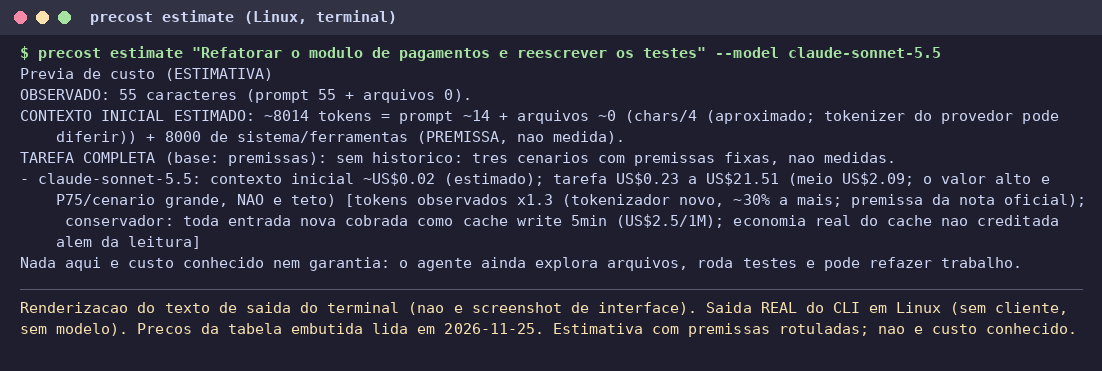
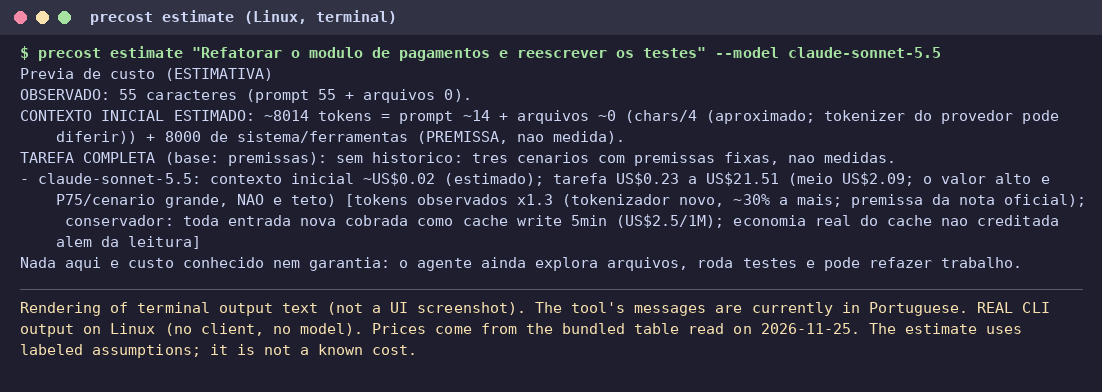
docs: ingles como idioma principal (README, INSTALLATION, CAPABILITIES), PT-BR com links cruzados, imagens com legendas em ingles

Changed region(s): [[0.0, 0.1186, 0.9873, 0.7412], [0.0, 0.7709, 0.9564, 0.9191], [0.0617, 0.0296, 0.3702, 0.0593]]

diff --git a/README.md b/README.md
@@ -1,65 +1,94 @@
-# opencode-precost (prototipo)
+# opencode-precost
 
-Mostra uma ESTIMATIVA de faixa de custo ANTES de executar uma tarefa em agentes de codigo (OpenCode e Claude Code), e opcionalmente pede aprovacao explicita quando a faixa alta passa de um limite. Privado, sem chamadas pagas. Primeira release privada v0.2.0, com limites: ver `docs/INSTALACAO.md`, "Limites" e `docs/CAPACIDADES.md`.
+**English** | [Português (Brasil)](README.pt-BR.md)
 
-## Imagens (execucao real, Linux)
-Capturas geradas a partir de saidas reais. Onde ha modelo, ele e um servidor SIMULADO local (sem custo, sem credencial). Nada abaixo foi executado em macOS ou Windows.
+Shows an **estimated** cost range *before* a task runs in a coding agent (OpenCode and Claude Code). Optionally asks for explicit approval when the high end of the range goes above a limit you set. No paid calls, no network access at run time.
 
-![Previa e bloqueio no Claude Code 2.1.332](docs/img/01-previa-e-bloqueio.png)
-![Aprovacao de uso unico](docs/img/02-aprovacao-uso-unico.png)
-![precost estimate no terminal](docs/img/03-estimate-cli.png)
-![precost update-prices (tabela simulada)](docs/img/04-update-prices.png)
-![OpenCode 1.19.6 TUI com precost (modelo simulado)](docs/img/05-opencode-tui.png)
+> Status: development version 0.3.0 (private repository, nothing published yet). Read "Limits" before relying on it. Messages printed by the tool (CLI, hook, plugin) are currently in Portuguese; see "Language" below.
 
-_Imagem 05: ilustracao do bloqueio (modelo sem preco na tabela) em recorte parcial reconstruido da TUI real; nao e screenshot integral nem prova visual do fluxo de aprovacao no OpenCode._
+## What it does
 
-## Atualizar a tabela de precos
+- `precost estimate <task>` prints a per-model range (three fixed scenarios, or percentiles from your own session history). The high end is a P75 / large scenario, **not a cap**.
+- A gate runs before your prompt reaches the model. With `limitUsd` set, a prompt whose high estimate is above the limit is blocked until you type `precost approve CODE`. The approval is bound to the prompt, model, session, price table, limit and estimated ceiling. It lasts 10 minutes (default) and works once.
+- Fails closed when a limit is set: unreadable config, unknown model, model without a price, unreadable context file, or an internal error all block instead of letting the prompt through. Without `limitUsd` the tool only informs ("NO GATE").
+
+## Pictures
+
+All images are **renderings of terminal output text, not UI screenshots**. Where a model appears it is a **simulated** local server (no cost, no credentials). Everything shown was run on **Linux**; nothing here is macOS or Windows validation (see "Platforms").
+
+![Preview and block in Claude Code 2.1.332 (simulated model server)](docs/img/01-preview-and-block.png)
+![Single-use approval (simulated model server)](docs/img/02-single-use-approval.png)
+![precost estimate in the terminal](docs/img/03-estimate-cli.png)
+![precost update-prices (SIMULATED price table, not official prices)](docs/img/04-update-prices.png)
+![OpenCode 1.19.6 TUI with precost (simulated model, partial screen)](docs/img/05-opencode-tui.png)
+
+Image 05 illustrates the block (a model with no price in the table) as a partial crop rebuilt from the real TUI. It is not a full screenshot and not proof of the approval flow in OpenCode.
+
+## Install
+
+Details, prerequisites and the validation matrix: [docs/INSTALLATION.md](docs/INSTALLATION.md).
+
+- **Claude Code (plugin):** `claude --plugin-dir /path/to/opencode-precost` to try it locally. Marketplace install (`/plugin marketplace add <repo>`, `/plugin install precost`) will work only after the repository is public. Not published to any marketplace yet.
+- **Claude Code (manual):** copy `adapters/claude-code/settings.example.json` into your Claude settings and fix the path. Keep `"onFailure": "block"`: without it a crashing, missing or hanging hook lets the prompt reach the model.
+- **OpenCode (1.19.6 only):** `npm i opencode-precost @opencode-ai/plugin@1.19.6` (the package is not on npm yet; use `npm pack` from a clone) and create `.opencode/plugins/precost.js`:
+  ```js
+  import { PrecostPlugin } from 'opencode-precost';
+  export const P = async (input) => PrecostPlugin(input, { limitUsd: 5 });
+  ```
+  Loading the plugin only through `opencode.json` was not verified.
+- **Config** (`~/.config/precost/config.json`, Windows `%APPDATA%\precost\config.json`): `{"model":"claude-sonnet-5.5","limitUsd":5}`.
+- **Check the install:** `node bin/precost.js doctor`. It cannot prove the client loaded the hook in your session. In a real session type `precost last` first: if a model answers, the hook is not loaded.
+
+## Commands
+
+Typed in the prompt (they never reach the model): `precost estimate <task>`, `precost last`, `precost approve CODE`, `precost revoke CODE|all`.
+In a terminal: `node bin/precost.js estimate "task" --model claude-sonnet-5.5`.
+
+### Update the reference price table
+
 ```
-precost prices                                   # tabela em uso, data e idade (aviso se > 30 dias)
-precost update-prices --from ARQUIVO_OU_URL      # valida e mostra o diff (nada e gravado). URL: https obrigatorio
-precost update-prices --from ARQUIVO_OU_URL --yes   # grava em ~/.config/precost/prices.json (Windows: %APPDATA%\precost\prices.json)
-precost update-prices                            # sem --from (e sem PRECOST_PRICES_SOURCE): erro com orientacao, nada muda
-precost update-prices --reset                    # volta para a tabela embutida
-```
-Recusa tabela invalida, mais antiga que a atual, ou com remocao/variacao acima de 5x (use `--force` so depois de conferir a fonte). Roda so na CLI, nunca dentro do hook/plugin. Usa-se a tabela do usuario so se nao for mais antiga que a embutida. Trocar a tabela invalida aprovacoes pendentes. Nao ha URL padrao nem leitura automatica das paginas oficiais de preco: voce indica a fonte (arquivo ou https). Hoje a tabela embutida (`data/prices.json`) e a fonte de referencia; as paginas oficiais citadas em cada modelo continuam sendo a verdade. Confira sempre.
-
-## Plataformas
-- Linux: testado (testes unitarios, Claude Code 2.1.332 e OpenCode 1.19.6 reais contra servidor falso).
-- macOS e Windows: o codigo usa caminhos por plataforma (`src/paths.js`; Windows: `%APPDATA%`/`%LOCALAPPDATA%`) e o hook do Claude Code usa `node` + `args` (sem shell). A matriz de CI (`.github/workflows/ci.yml`) roda os testes unitarios em Ubuntu, macOS e Windows. Ate a CI passar, trate como NAO VERIFICADO. Os scripts `e2e:*` sao bash/pty e rodam so em Linux/macOS.
-
-## Claude Code como plugin
-`claude plugin marketplace add glauberportella/opencode-precost` e `claude plugin install precost@precost-marketplace` (apos o repositorio estar publico). Local: `claude --plugin-dir .`. Testado em Linux com Claude Code 2.1.332 real e servidor falso (`npm run e2e:claude-plugin`). `onFailure:"block"` no hook do plugin: carregado e usado, falha do hook em plugin ainda nao testada.
-
-## Instalar e testar (reproduzivel)
-```
-npm ci            # usa package-lock.json; instala a dependencia de dev @opencode-ai/plugin@1.19.6 (necessaria para o teste do adaptador OpenCode)
-npm test          # 54 testes; sem npm ci o teste do adaptador OpenCode falha por dependencia ausente
-node bin/precost.js doctor   # verifica instalacao local (limite: nao prova que o cliente carregou o hook)
-npm run e2e:opencode          # OpenCode 1.19.6 real, sem modelo: ciclo bloqueio/approve/uso unico (npx opencode-ai@1.19.6)
-npm run e2e:opencode-ledger   # OpenCode 1.19.6 real + provedor FALSO local: evento real do assistente, semantica de tokens/custo
-npm run e2e:claude-tui        # TUI INTERATIVA real do Claude Code (pty) + servidor falso: bloqueio visivel, 0 chamadas ao modelo
-npm run e2e:claude-failure    # falha do hook (crash, node ausente, timeout) no settings.example.json real: nada chega ao modelo (onFailure:block)
-npm run e2e:opencode-tui      # TUI real do OpenCode 1.19.6 (pty): bloqueio visivel, plugin carregado, sem provedor pago
-npm run e2e:claude            # Claude Code 2.1.332 REAL + servidor Anthropic FALSO local: hook, bloqueio sem chamar modelo, approve, uso unico, modelo via transcript (npx @anthropic-ai/claude-code@2.1.332)
+precost prices                                   # table in use, date, age (warns after 30 days)
+precost update-prices --from FILE_OR_URL         # validates and shows the diff; nothing is written (URL must be https)
+precost update-prices --from FILE_OR_URL --yes   # writes ~/.config/precost/prices.json (Windows: %APPDATA%\precost\prices.json)
+precost update-prices                            # no --from and no PRECOST_PRICES_SOURCE: error with guidance, nothing changes
+precost update-prices --reset                    # back to the bundled table
 ```
 
-## Primeiro uso real guiado (escopo)
-1. Previa pelo terminal, o canal acessivel e verificado: `node bin/precost.js estimate "tarefa..." --model gemini-3.5-flash` (ou `--task`, `--file`). Tambem `node bin/precost.js last` mostra o ultimo bloqueio.
-2. Modelos com preco conhecido na tabela (`data/prices.json`): Gemini 3.x/4 e Claude 4.5 a 5.5. Modelo fora da tabela com limite configurado = bloqueia e pede aprovacao.
-3. Claude Code NAO informa o modelo ao hook (observado na 2.1.332). So `PRECOST_MODEL` e aceito como modelo efetivo sem pior caso: e uma DECLARACAO do operador, NAO uma prova tecnica (ela nao forca o Claude a usar esse modelo; use-a junto com `claude --model` igual). Rastreador, ultima resposta do transcript e `--model` do processo sao OBSERVADOS: nao garantem o modelo do proximo prompt (apos `/model`). `ANTHROPIC_MODEL`, settings do Claude e `config.model` sao DECLARADOS. Fora do caso comprovado, o gate usa o PIOR CASO do catalogo suportado (rotulado, nao e preco comprovado nem teto: modelo fora do catalogo nao e coberto) e a aprovacao fica presa a esse estado. `trustConfiguredModel:true` no config aceita um modelo observado/declarado consistente como efetivo (decisao do usuario), exceto quando o transcript registra um `/model` depois da ultima resposta (troca pendente: volta ao pior caso). Exemplo de config: `{"model":"claude-sonnet-5.5","limitUsd":5}`. Historico: com 5+ sessoes do mesmo modelo na pasta de transcripts do projeto, a previa usa o consumo real.
-   Instalacao: copie `adapters/claude-code/settings.example.json` ajustando o caminho. O `onFailure:"block"` do UserPromptSubmit e obrigatorio para o gate: sem ele (ou com `continue`) crash, node ausente ou timeout do hook deixam o prompt chegar ao modelo (reproduzido; `npm run e2e:claude-failure`). Sem limite configurado o hook e so informativo.
-4. OpenCode: `.opencode/plugins/precost.js` reexportando `adapters/opencode/index.js`, opcoes `limitUsd`, `models`, `ttlMin`. So OpenCode 1.19.6 (outra versao bloqueia, salvo `allowUnverifiedVersion`).
-5. Comandos digitados no prompt (nao chegam ao modelo): `precost estimate <tarefa>`, `precost last`, `precost approve CODIGO`, `precost revoke CODIGO|all`. No Claude Code 2.1.332 em modo `claude -p` o texto aparece na saida ("UserPromptSubmit operation blocked by hook: ..."), verificado com Claude Code real; a TUI interativa tambem foi verificada (`npm run e2e:claude-tui`). No OpenCode o cliente recebe erro generico; na TUI real do OpenCode 1.19.6 o texto de bloqueio aparece numa caixa de erro (`npm run e2e:opencode-tui`, captura em docs/evidence/opencode-tui-pty-capture.txt); ciclo approve/reenvio/uso unico testado na TUI com provedor falso local. Trate o terminal como canal confiavel e os comandos no prompt como conveniencia nao comprovada no OpenCode.
+It rejects an invalid table, one older than the current one, or one with a removal or a change above 5x (use `--force` only after checking the source). It runs only from the CLI, never inside the hook or plugin. A user table is used only if it is not older than the bundled one. Changing the table invalidates pending approvals. There is **no default URL and no automatic reading of official pricing pages**: you provide the source (file or https URL). Today the bundled `data/prices.json` is the reference; the official pages cited per model remain the source of truth. Always check them.
 
-## Limites (resumo; detalhes em docs/CAPACIDADES.md)
-- E estimativa: tokens = chars/4 (x1.3 nos observados para Claude 4.7+) + 8k de sistema (premissa). Nao e custo conhecido.
-- Faixa alta = P75/cenario grande, nao teto. O gate age antes do prompt; nao limita gasto durante a tarefa nem laços longos.
-- OpenCode nao tem previa automatica antes do modelo; este plugin calcula dentro de `chat.message`. O bloqueio por throw e comportamento nao documentado (versao fixada, falha fechada).
-- Gate contra gasto acidental, nao contra agente com shell no mesmo usuario (estado e arquivo local).
-- Precos: Gemini via cloud.google.com/vertex-ai/generative-ai/pricing, Claude via platform.claude.com/docs/en/about-claude/pricing, lidos em 25/nov/2026. Carbon/Argon: bruto inferido. Nao modelados: Batch, Priority, Fast mode, residencia de dados.
-- Historico: so sessoes do mesmo modelo e projeto, minimo 5. Semantica dos tokens validada com eventos/transcripts reais de OpenCode e Claude Code contra provedores FALSOS (sem fatura real): `input` exclui o cache. Comparacao com fatura real ainda nao feita.
-- Premissa de sistema: 8k tokens no OpenCode e 13k no Claude Code, a partir do tamanho medido do corpo da requisicao (32,6 KB e 48,9 KB para um prompt de 3 a 9 caracteres) convertido por chars/4; nao e contagem de tokens do provedor.
+## Platforms
 
-## Licenca
+What was actually executed is in the matrix in [docs/INSTALLATION.md](docs/INSTALLATION.md#validation-matrix). Linux is not validation of macOS or Windows. The code uses per-platform paths (`src/paths.js`) and the Claude Code hook uses `node` + `args` (no shell). `npm run e2e:native` (Node, no bash) runs the real clients against fake local servers on Linux, macOS and Windows; results per system are in the matrix. Official client support on Windows: Claude Code runs natively on Windows 10 1809+ (Git for Windows recommended); OpenCode runs on Windows but its docs recommend WSL.
 
-MIT. Veja [LICENSE](LICENSE). Copyright (c) 2026 Glauber Portella.
+## Test it
+
+```
+npm ci            # installs the dev dependency @opencode-ai/plugin@1.19.6 (needed by the OpenCode adapter test)
+npm test          # 63 unit tests
+npm run e2e:native            # real Claude Code 2.1.332 and OpenCode 1.19.6 vs fake servers: block, approve, single use, fail closed
+npm run e2e:claude-plugin     # Claude Code plugin cycle (bash, Linux/macOS)
+npm run e2e:claude-plugin-failure   # hook crash / missing node / timeout never reach the model (bash)
+npm run e2e:opencode          # OpenCode 1.19.6 block/approve/single-use cycle (bash)
+```
+End-to-end scripts download pinned client versions through `npx` and call only local fake servers. No paid model is called.
+
+## Limits
+
+- It is an estimate: tokens are chars/4 (x1.3 for observed Claude 4.7+ tokens) plus an assumed system prompt (8k OpenCode, 13k Claude Code). It is not a known cost.
+- The high end is not a cap. The gate acts before the prompt; it does not limit spend during a task or inside long loops.
+- Claude Code does not tell the hook which model is active (observed in 2.1.332). An unproven model uses the worst case in the supported catalog, labeled as such.
+- OpenCode has no automatic preview before the model; this plugin computes it inside `chat.message`. Blocking by throwing is undocumented behavior, so the plugin is pinned to OpenCode 1.19.6 and fails closed on other versions (unless `allowUnverifiedVersion` is set).
+- Approval is a local file of the same user. It protects against accidental spend, not against an agent with a shell.
+- The gate only works while the plugin or hook is loaded.
+- Prices: Gemini from cloud.google.com/vertex-ai/generative-ai/pricing and Claude from platform.claude.com/docs/en/about-claude/pricing, read on 2026-11-25. Not modeled: batch, priority, fast mode, data residency. Carbon/Argon raw price is inferred.
+- Token semantics were checked against real events and transcripts from OpenCode and Claude Code with **fake** providers. No comparison with a real invoice has been done.
+
+More detail: [docs/CAPABILITIES.md](docs/CAPABILITIES.md).
+
+## Language
+
+The documentation is available in English (main) and Portuguese (Brasil). The messages printed by the tool itself are still Portuguese only; an English default with a language setting is proposed but not implemented.
+
+## License
+
+MIT. See [LICENSE](LICENSE). Copyright (c) 2026 Glauber Portella.

diff --git a/README.pt-BR.md b/README.pt-BR.md
@@ -1,0 +1,66 @@
+# opencode-precost (prototipo)
+
+[English](README.md) | **Português (Brasil)**
+
+Mostra uma ESTIMATIVA de faixa de custo ANTES de executar uma tarefa em agentes de codigo (OpenCode e Claude Code), e opcionalmente pede aprovacao explicita quando a faixa alta passa de um limite. Privado, sem chamadas pagas. Versao de desenvolvimento 0.3.0 (branch dev/0.3.0), com limites: ver `docs/INSTALACAO.pt-BR.md`, "Limites" e `docs/CAPACIDADES.md`.
+
+## Imagens (execucao real, Linux)
+Renderizacoes do texto de saida do terminal (nao sao screenshots de interface), geradas a partir de saidas reais; as legendas nas imagens estao em ingles e as mensagens da ferramenta ainda estao em portugues. Onde ha modelo, ele e um servidor SIMULADO local (sem custo, sem credencial). Nada abaixo foi executado em macOS ou Windows.
+
+![Previa e bloqueio no Claude Code 2.1.332](docs/img/01-preview-and-block.png)
+![Aprovacao de uso unico](docs/img/02-single-use-approval.png)
+![precost estimate no terminal](docs/img/03-estimate-cli.png)
+![precost update-prices (tabela simulada)](docs/img/04-update-prices.png)
+![OpenCode 1.19.6 TUI com precost (modelo simulado)](docs/img/05-opencode-tui.png)
+
+_Imagem 05: ilustracao do bloqueio (modelo sem preco na tabela) em recorte parcial reconstruido da TUI real; nao e screenshot integral nem prova visual do fluxo de aprovacao no OpenCode._
+
+## Atualizar a tabela de precos
+```
+precost prices                                   # tabela em uso, data e idade (aviso se > 30 dias)
+precost update-prices --from ARQUIVO_OU_URL      # valida e mostra o diff (nada e gravado). URL: https obrigatorio
+precost update-prices --from ARQUIVO_OU_URL --yes   # grava em ~/.config/precost/prices.json (Windows: %APPDATA%\precost\prices.json)
+precost update-prices                            # sem --from (e sem PRECOST_PRICES_SOURCE): erro com orientacao, nada muda
+precost update-prices --reset                    # volta para a tabela embutida
+```
+Recusa tabela invalida, mais antiga que a atual, ou com remocao/variacao acima de 5x (use `--force` so depois de conferir a fonte). Roda so na CLI, nunca dentro do hook/plugin. Usa-se a tabela do usuario so se nao for mais antiga que a embutida. Trocar a tabela invalida aprovacoes pendentes. Nao ha URL padrao nem leitura automatica das paginas oficiais de preco: voce indica a fonte (arquivo ou https). Hoje a tabela embutida (`data/prices.json`) e a fonte de referencia; as paginas oficiais citadas em cada modelo continuam sendo a verdade. Confira sempre.
+
+## Plataformas
+Matriz do que foi realmente executado (CI real do GitHub + execucao local): ver `docs/INSTALACAO.pt-BR.md`, "Matriz de validacao". Linux nao e validacao de macOS/Windows. O codigo usa caminhos por plataforma (`src/paths.js`; Windows: `%APPDATA%`) e o hook do Claude Code usa `node` + `args` (sem shell). O harness `npm run e2e:native` (Node, sem bash) roda os clientes reais contra servidores falsos em Linux, macOS e Windows.
+
+## Claude Code como plugin
+`claude plugin marketplace add glauberportella/opencode-precost` e `claude plugin install precost@precost-marketplace` (apos o repositorio estar publico). Local: `claude --plugin-dir .`. Testado em Linux com Claude Code 2.1.332 real e servidor falso (`npm run e2e:claude-plugin`). `onFailure:"block"` no hook do plugin; falha do hook no plugin testada em Linux (`npm run e2e:claude-plugin-failure`).
+
+## Instalar e testar (reproduzivel)
+```
+npm ci            # usa package-lock.json; instala a dependencia de dev @opencode-ai/plugin@1.19.6 (necessaria para o teste do adaptador OpenCode)
+npm test          # 63 testes; sem npm ci o teste do adaptador OpenCode falha por dependencia ausente
+node bin/precost.js doctor   # verifica instalacao local (limite: nao prova que o cliente carregou o hook)
+npm run e2e:opencode          # OpenCode 1.19.6 real, sem modelo: ciclo bloqueio/approve/uso unico (npx opencode-ai@1.19.6)
+npm run e2e:opencode-ledger   # OpenCode 1.19.6 real + provedor FALSO local: evento real do assistente, semantica de tokens/custo
+npm run e2e:claude-tui        # TUI INTERATIVA real do Claude Code (pty) + servidor falso: bloqueio visivel, 0 chamadas ao modelo
+npm run e2e:claude-failure    # falha do hook (crash, node ausente, timeout) no settings.example.json real: nada chega ao modelo (onFailure:block)
+npm run e2e:opencode-tui      # TUI real do OpenCode 1.19.6 (pty): bloqueio visivel, plugin carregado, sem provedor pago
+npm run e2e:claude            # Claude Code 2.1.332 REAL + servidor Anthropic FALSO local: hook, bloqueio sem chamar modelo, approve, uso unico, modelo via transcript (npx @anthropic-ai/claude-code@2.1.332)
+```
+
+## Primeiro uso real guiado (escopo)
+1. Previa pelo terminal, o canal acessivel e verificado: `node bin/precost.js estimate "tarefa..." --model gemini-3.5-flash` (ou `--task`, `--file`). Tambem `node bin/precost.js last` mostra o ultimo bloqueio.
+2. Modelos com preco conhecido na tabela (`data/prices.json`): Gemini 3.x/4 e Claude 4.5 a 5.5. Modelo fora da tabela com limite configurado = bloqueia e pede aprovacao.
+3. Claude Code NAO informa o modelo ao hook (observado na 2.1.332). So `PRECOST_MODEL` e aceito como modelo efetivo sem pior caso: e uma DECLARACAO do operador, NAO uma prova tecnica (ela nao forca o Claude a usar esse modelo; use-a junto com `claude --model` igual). Rastreador, ultima resposta do transcript e `--model` do processo sao OBSERVADOS: nao garantem o modelo do proximo prompt (apos `/model`). `ANTHROPIC_MODEL`, settings do Claude e `config.model` sao DECLARADOS. Fora do caso comprovado, o gate usa o PIOR CASO do catalogo suportado (rotulado, nao e preco comprovado nem teto: modelo fora do catalogo nao e coberto) e a aprovacao fica presa a esse estado. `trustConfiguredModel:true` no config aceita um modelo observado/declarado consistente como efetivo (decisao do usuario), exceto quando o transcript registra um `/model` depois da ultima resposta (troca pendente: volta ao pior caso). Exemplo de config: `{"model":"claude-sonnet-5.5","limitUsd":5}`. Historico: com 5+ sessoes do mesmo modelo na pasta de transcripts do projeto, a previa usa o consumo real.
+   Instalacao: copie `adapters/claude-code/settings.example.json` ajustando o caminho. O `onFailure:"block"` do UserPromptSubmit e obrigatorio para o gate: sem ele (ou com `continue`) crash, node ausente ou timeout do hook deixam o prompt chegar ao modelo (reproduzido; `npm run e2e:claude-failure`). Sem limite configurado o hook e so informativo.
+4. OpenCode: `.opencode/plugins/precost.js` reexportando `adapters/opencode/index.js`, opcoes `limitUsd`, `models`, `ttlMin`. So OpenCode 1.19.6 (outra versao bloqueia, salvo `allowUnverifiedVersion`).
+5. Comandos digitados no prompt (nao chegam ao modelo): `precost estimate <tarefa>`, `precost last`, `precost approve CODIGO`, `precost revoke CODIGO|all`. No Claude Code 2.1.332 em modo `claude -p` o texto aparece na saida ("UserPromptSubmit operation blocked by hook: ..."), verificado com Claude Code real; a TUI interativa tambem foi verificada (`npm run e2e:claude-tui`). No OpenCode o cliente recebe erro generico; na TUI real do OpenCode 1.19.6 o texto de bloqueio aparece numa caixa de erro (`npm run e2e:opencode-tui`, captura em docs/evidence/opencode-tui-pty-capture.txt); ciclo approve/reenvio/uso unico testado na TUI com provedor falso local. Trate o terminal como canal confiavel e os comandos no prompt como conveniencia nao comprovada no OpenCode.
+
+## Limites (resumo; detalhes em docs/CAPACIDADES.md)
+- E estimativa: tokens = chars/4 (x1.3 nos observados para Claude 4.7+) + 8k de sistema (premissa). Nao e custo conhecido.
+- Faixa alta = P75/cenario grande, nao teto. O gate age antes do prompt; nao limita gasto durante a tarefa nem laços longos.
+- OpenCode nao tem previa automatica antes do modelo; este plugin calcula dentro de `chat.message`. O bloqueio por throw e comportamento nao documentado (versao fixada, falha fechada).
+- Gate contra gasto acidental, nao contra agente com shell no mesmo usuario (estado e arquivo local).
+- Precos: Gemini via cloud.google.com/vertex-ai/generative-ai/pricing, Claude via platform.claude.com/docs/en/about-claude/pricing, lidos em 25/nov/2026. Carbon/Argon: bruto inferido. Nao modelados: Batch, Priority, Fast mode, residencia de dados.
+- Historico: so sessoes do mesmo modelo e projeto, minimo 5. Semantica dos tokens validada com eventos/transcripts reais de OpenCode e Claude Code contra provedores FALSOS (sem fatura real): `input` exclui o cache. Comparacao com fatura real ainda nao feita.
+- Premissa de sistema: 8k tokens no OpenCode e 13k no Claude Code, a partir do tamanho medido do corpo da requisicao (32,6 KB e 48,9 KB para um prompt de 3 a 9 caracteres) convertido por chars/4; nao e contagem de tokens do provedor.
+
+## Licenca
+
+MIT. Veja [LICENSE](LICENSE). Copyright (c) 2026 Glauber Portella.

diff --git a/docs/CAPABILITIES.md b/docs/CAPABILITIES.md
@@ -1,0 +1,54 @@
+**English** | Português: [CAPACIDADES.md](CAPACIDADES.md) (historical log, longer)
+
+# What each client really allows
+
+Status as of 2026-11-25. VERIFIED = run against the real software. DOC = documentation or types only. No paid model was called.
+
+## Honest summary
+
+- **OpenCode does not preview cost before the model on its own.** This plugin computes the preview inside the `chat.message` hook, which runs before the model.
+- **The tool gate (`tool.execute.before` plus a session limit) is not a spending cap.** By the time a tool is requested the model has already been called and billed. Only the prompt gate acts before the first spend of a task, and it does not limit spend inside an approved task.
+- Neither gate stops long loops started by an approved prompt.
+
+| Capability | OpenCode 1.19.6 (plugin V1) | Claude Code (hooks) |
+|---|---|---|
+| Plugin/hook loads | VERIFIED (`opencode serve` listed the `precost_estimate` tool; shim + npm package also verified) | VERIFIED with 2.1.332 (`--plugin-dir`, fake server) |
+| Hook receives the prompt before the model | VERIFIED (`chat.message` fired with the real prompt before any processing event) | VERIFIED (`UserPromptSubmit` gets `prompt`, `session_id`, `transcript_path`, `cwd`) |
+| Block a prompt | VERIFIED: throwing in `chat.message` keeps the prompt out of the session (0 messages) and away from the model. Undocumented behavior; the client sees a generic error, the TUI shows the text in an error box | VERIFIED: `{"decision":"block","reason":...}` blocks; the model server counter stayed at 0; text visible in `claude -p` and in the interactive TUI |
+| Block, approve, resend, single use | VERIFIED on a real server: messages 0, 0, 0, 1, 1 | VERIFIED with real client and fake server (1 model call after approval, blocked again on the next resend) |
+| Active model | `chat.message` receives `input.model.modelID` | The event does **not** carry the model. Tracked by `SessionStart.model` (optional) and `PostModelSwitch.to_model`; otherwise by the last transcript response, the process `--model` flag (Linux only), declared sources, or the worst case |
+| Real spend per message | `message.updated` of the assistant carries `cost` and `tokens` (checked against a fake provider) | transcript `usage` fields (checked against a fake server) |
+| Automatic prompts | n/a | DOC: `UserPromptSubmit` also fires for scheduled tasks, background subagents and messages from other sessions; the gate can block them |
+
+## Approval (explicit and bound)
+
+Resending the same prompt never approves it. To approve, type `precost approve CODE` (a random code for the pending block). The approval binds prompt, model, session, price table hash, limit and estimated ceiling. It lasts a TTL (default 10 minutes), works once, and `precost revoke CODE|all` revokes it. Any change to those items invalidates it.
+
+## Estimator limits
+
+- The observed input is characters. Tokens = chars/4. System/tool overhead is an assumption (8k OpenCode, 13k Claude Code, derived from measured request body size).
+- Without history (fewer than 5 sessions of the same model and project): three fixed scenarios with assumptions, not measurements. With history: P25/P50/P75 aggregates.
+- Claude 4.7+ tokenizer: observed tokens x1.3 (approximate, from the official note). All new input is priced as 5-minute cache write (conservative, may overestimate).
+- Long context: `none` (no tier on the page), an object (e.g. 3.1 Pro, Haiku 5.5 at 100K) or `unknown` (Gemini 4: only a lower bound, requires approval).
+- Price table: official pages read on 2026-11-25 (Standard, Global). Not modeled: Batch, Priority, Flex, Fast mode, data residency (1.1x). Raw Carbon/Argon price is inferred (the page describes 50% credits back); the gate uses the raw price. Access to those models on a given account was not verified.
+
+## Safety model
+
+- Approval state lives in files of the same user (`~/.cache/precost`, Windows `%LOCALAPPDATA%\precost\state`). An agent with a shell or write access as that user can forge an approval or read the code. The gate protects against accidental spend, not an adversarial agent.
+- `precost approve` is accepted only as typed user prompt text. The local CLI approves nothing; `precost last` only shows the last block.
+- **Fail closed** (when `limitUsd` is set): a non-numeric or negative limit, invalid TTL, unreadable config or price table, internal error, unreadable hook input, unknown or unpriced model, a cost with only a lower bound, or a context file that could not be counted (large, outside the project, secret) all block and ask for approval or a fix. Without `limitUsd` the tool only informs and says "NO GATE".
+- **Hook failure** (Claude Code): with `onFailure: "block"`, a script crash, missing `node` or timeout never reaches the model (real client, negative control included). Without it, or with `continue`, the prompt goes through.
+- **OpenCode:** depends on undocumented throw behavior, so the version is pinned to 1.19.6 (read from `/global/health` or the binary); a different or unknown version blocks unless `allowUnverifiedVersion: true`.
+- Files referenced in a prompt (`@path` in Claude Code, `file` parts in OpenCode) are read inside the project, counted in the estimate, and their content hash is part of the approval. Ignored files (secret, large) are not read; their size+mtime signature binds the approval (a change that preserves both is not detected).
+
+## Model resolution in Claude Code
+
+The hook does not receive the model. Chain: `PRECOST_MODEL` (an operator declaration, treated as proven, but it does not force the request) > tracker > last transcript response > process `--model` flag (observed: they do not prove the model of the next prompt after `/model`) > `ANTHROPIC_MODEL`, settings, `config.model` (declared). An unproven model uses the worst case across all candidate `claude-*` models and says so; the approval is bound to that state. Conflicting declared sources are never proven. `trustConfiguredModel: true` accepts a single consistent observed/declared model, except when the transcript records a `/model` after the last response (then the worst case applies).
+
+## History
+
+With at least 5 sessions of the same model and project, the preview uses real consumption. The peak per call is the largest recorded (not a quantile). Each compared line uses only its own model's history. Token semantics were checked against real events and transcripts with fake providers: `input` excludes cache. No comparison with a real invoice has been made.
+
+## Not verified
+
+Real invoice comparison, `PostModelSwitch` in a user install, subagents and scheduled runs, raw Carbon/Argon price, approval flow visuals in the OpenCode TUI beyond the tested pty cycle, and real end-to-end use on macOS and Windows (see the matrix in INSTALLATION.md).

diff --git a/docs/INSTALLATION.md b/docs/INSTALLATION.md
@@ -1,0 +1,82 @@
+**English** | [Português (Brasil)](INSTALACAO.pt-BR.md)
+
+# Installation and verification (v0.3.0-dev, private repository)
+
+Nothing here calls a paid model or publishes a package. Requirements: Node >= 20, git, access to the repository.
+
+## Validation matrix
+
+What was actually executed (GitHub-hosted runners and local runs). Linux is not validation of macOS or Windows.
+
+| Client / OS | Linux | macOS | Windows |
+|---|---|---|---|
+| Unit tests (63) | OK (Node 20 and 22, real CI) | OK on Node 22 (real CI); Node 20 cancelled twice by GitHub infrastructure (inconclusive) | OK on Node 20 and 22 (real CI, windows-latest) |
+| Claude Code plugin, real 2.1.332 vs fake server | OK (real CI) | pending (see below) | pending |
+| OpenCode 1.19.6, real vs fake server | OK (real CI, shim + npm pack) | pending | pending |
+
+"Pending" entries are being run by the cross-platform harness `npm run e2e:native` in CI. This table is updated from the CI results only. An earlier macOS run of the bash scripts failed because they used `timeout`, which macOS does not have; this was fixed and the harness above no longer uses bash.
+
+Official client support on Windows (docs read 2026-11-25): Claude Code runs natively on Windows 10 1809+ / Server 2019+ (Git for Windows recommended; without it Claude Code uses PowerShell) - https://code.claude.com/docs/en/setup . OpenCode can run directly on Windows but its documentation recommends WSL - https://opencode.ai/docs/windows-wsl/ .
+
+## 1. Get it and test it
+
+```
+git clone git@github.com:jarbas-melo/opencode-precost.git && cd opencode-precost
+git checkout dev/0.3.0              # until release 0.3.0
+npm ci && npm test                    # 63 tests
+```
+
+End-to-end tests against real third-party clients and FAKE local servers (no spend; they download pinned versions through npx): `npm run e2e:native` (all systems), or the bash variants `e2e:claude-plugin`, `e2e:claude-plugin-failure`, `e2e:claude`, `e2e:claude-tui`, `e2e:claude-failure`, `e2e:opencode`, `e2e:opencode-ledger`, `e2e:opencode-tui` (Linux/macOS).
+
+## 2. Configuration (`~/.config/precost/config.json`, Windows `%APPDATA%\precost\config.json`)
+
+```
+{"model":"claude-sonnet-5.5","limitUsd":5}
+```
+
+Without `limitUsd` the hook only informs and never blocks. `trustConfiguredModel: true` is your decision to accept an observed or declared model as the effective one (see the README, "Limits").
+
+## 3. Claude Code (tested with 2.1.332)
+
+- **Plugin:** `claude --plugin-dir /path/to/opencode-precost` to try it. After the repository is public: `/plugin marketplace add <repo>` and `/plugin install precost`. Hooks are in `hooks/hooks.json` with `onFailure: "block"`. Not published to any marketplace yet.
+- **Manual:** copy `adapters/claude-code/settings.example.json` into `~/.claude/settings.json` (or the project's `.claude/settings.json`) and replace `/CAMINHO/opencode-precost` with the clone path. Keep `"onFailure": "block"` on `UserPromptSubmit`; without it a crash, timeout or missing node lets the prompt reach the model.
+
+## 4. OpenCode (tested with 1.19.6; other versions block)
+
+In the project: `npm i opencode-precost @opencode-ai/plugin@1.19.6` (not on npm yet: run `npm pack` in a clone and install the tarball), then create `.opencode/plugins/precost.js`:
+
+```js
+import { PrecostPlugin } from 'opencode-precost';
+export const P = async (input) => PrecostPlugin(input, { limitUsd: 5 });
+```
+
+Verified on Linux with OpenCode 1.19.6: this shim loads the plugin and blocks the message. Not verified: loading it only through `opencode.json` (the `plugin` key did not load it in tests; the `plugins` key is ignored by 1.19.6). Use the shim.
+
+## 5. Check the install (no paid call)
+
+```
+node bin/precost.js doctor [--project DIR] [--claude-settings FILE]
+```
+
+`doctor` checks config, prices, hook/plugin files, `onFailure` and trackers, and runs the hook locally with temporary state. It exits 1 on any FAIL.
+**Limit:** `doctor` cannot prove that the client loaded the hook or plugin in your session. The fail-closed behavior only holds while it is loaded. In a real session type `precost last` first: with the hook loaded, precost answers without a model. If a model answers, the hook is NOT loaded (cost: one short prompt).
+
+## 6. Prices
+
+`precost prices` shows the table in use. `precost update-prices --from FILE_OR_URL` validates and prints a diff; add `--yes` to write it. There is no default URL: without a source it explains how to provide one.
+
+## 7. Use
+
+`precost estimate <task>`, `precost last`, `precost approve CODE`, `precost revoke CODE|all`, typed in the prompt (they do not reach the model). In a terminal: `node bin/precost.js estimate "..." --model ...`.
+
+## Supported scope and limits (summary; details in CAPABILITIES.md)
+
+- An estimate, not a cost. The high end is not a cap. The gate acts before the prompt and does not limit spend during the task.
+- OpenCode has no automatic preview before the model. After approval there is one auxiliary call (session title) that the estimate does not include (observed only against a fake provider).
+- Approval is a local file of the same user: it protects against accidental spend, not against an agent with a shell.
+- Worst-case model = highest price in the supported catalog. It is a label, not a guarantee.
+- Not verified: a real invoice, `PostModelSwitch` in your install, subagents and scheduled runs, raw Carbon/Argon price (inferred).
+
+## Hook failure in the Claude Code plugin (Linux)
+
+`npm run e2e:claude-plugin-failure` (real Claude Code 2.1.332, `--plugin-dir`, fake server, no spend): a script crash, a missing `node` and a hook timeout do NOT let the prompt reach the model (`onFailure: block`). Negative control: with `onFailure: continue` the prompt goes through.

diff --git a/docs/INSTALACAO.pt-BR.md b/docs/INSTALACAO.pt-BR.md
@@ -1,3 +1,5 @@
+[English](INSTALLATION.md) | **Português (Brasil)**
+
 # Instalação e verificação (v0.3.0-dev, repositório privado)
 
 Nada aqui chama modelo pago nem publica pacote. Requisitos: Node >= 20, git, acesso ao repositório privado.
@@ -31,7 +33,7 @@ Testes reais com software de terceiros contra servidores FALSOS locais (sem gast
 ```
 {"model":"claude-sonnet-5.5","limitUsd":5}
 ```
-Sem `limitUsd`, o hook só informa e nunca bloqueia. `trustConfiguredModel:true` é decisão sua de aceitar um modelo observado/declarado como efetivo (ver README, item 3).
+Sem `limitUsd`, o hook só informa e nunca bloqueia. `trustConfiguredModel:true` é decisão sua de aceitar um modelo observado/declarado como efetivo (ver README.pt-BR.md, item 3).
 
 ## 3. Claude Code (testado 2.1.332)
 Copie `adapters/claude-code/settings.example.json` para `~/.claude/settings.json` (ou `.claude/settings.json` do projeto) e troque `/CAMINHO/opencode-precost` pelo caminho do clone. Mantenha `"onFailure":"block"` no UserPromptSubmit: sem ele, crash, timeout ou node ausente deixam o prompt chegar ao modelo.

diff --git a/docs/PRIMEIRO-USO.md b/docs/PRIMEIRO-USO.md
@@ -1,6 +1,6 @@
 # Primeiro uso guiado (sem gasto, Linux)
 
-> Instalação, `doctor` e escopo atual: ver `docs/INSTALACAO.md`. Este arquivo é o guia inicial da CLI; trechos marcados como simulados ou não verificados foram superados por `docs/CAPACIDADES.md` (Atualizações 6 a 8).
+> Instalação, `doctor` e escopo atual: ver `docs/INSTALACAO.pt-BR.md`. Este arquivo é o guia inicial da CLI; trechos marcados como simulados ou não verificados foram superados por `docs/CAPACIDADES.md` (Atualizações 6 a 8).
 
 Recorte de prova de conceito local. Nada aqui chama modelo pago. Saidas reais capturadas em `docs/exemplos/` (rodadas em 25/nov/2026, Node 22).
 

diff --git a/RELEASE-v0.2.0.md b/RELEASE-v0.2.0.md
@@ -2,7 +2,7 @@
 
 Prévia de faixa de custo ANTES de rodar uma tarefa em OpenCode (1.19.6) e Claude Code (2.1.332), com gate opcional de aprovação por limite. Estimativa, não custo.
 
-Guia: docs/INSTALACAO.md. Capacidades e limites: docs/CAPACIDADES.md.
+Guia: docs/INSTALACAO.pt-BR.md. Capacidades e limites: docs/CAPACIDADES.md.
 
 Validado (software real, servidores falsos locais, sem gasto): hook e TUI interativa do Claude Code, falha de hook (onFailure block), plugin e TUI do OpenCode com ciclo bloqueio/approve/uso único, semântica de tokens/custo do OpenCode. 54 testes unitários. Revisão independente convergiu no RC3c.
 
